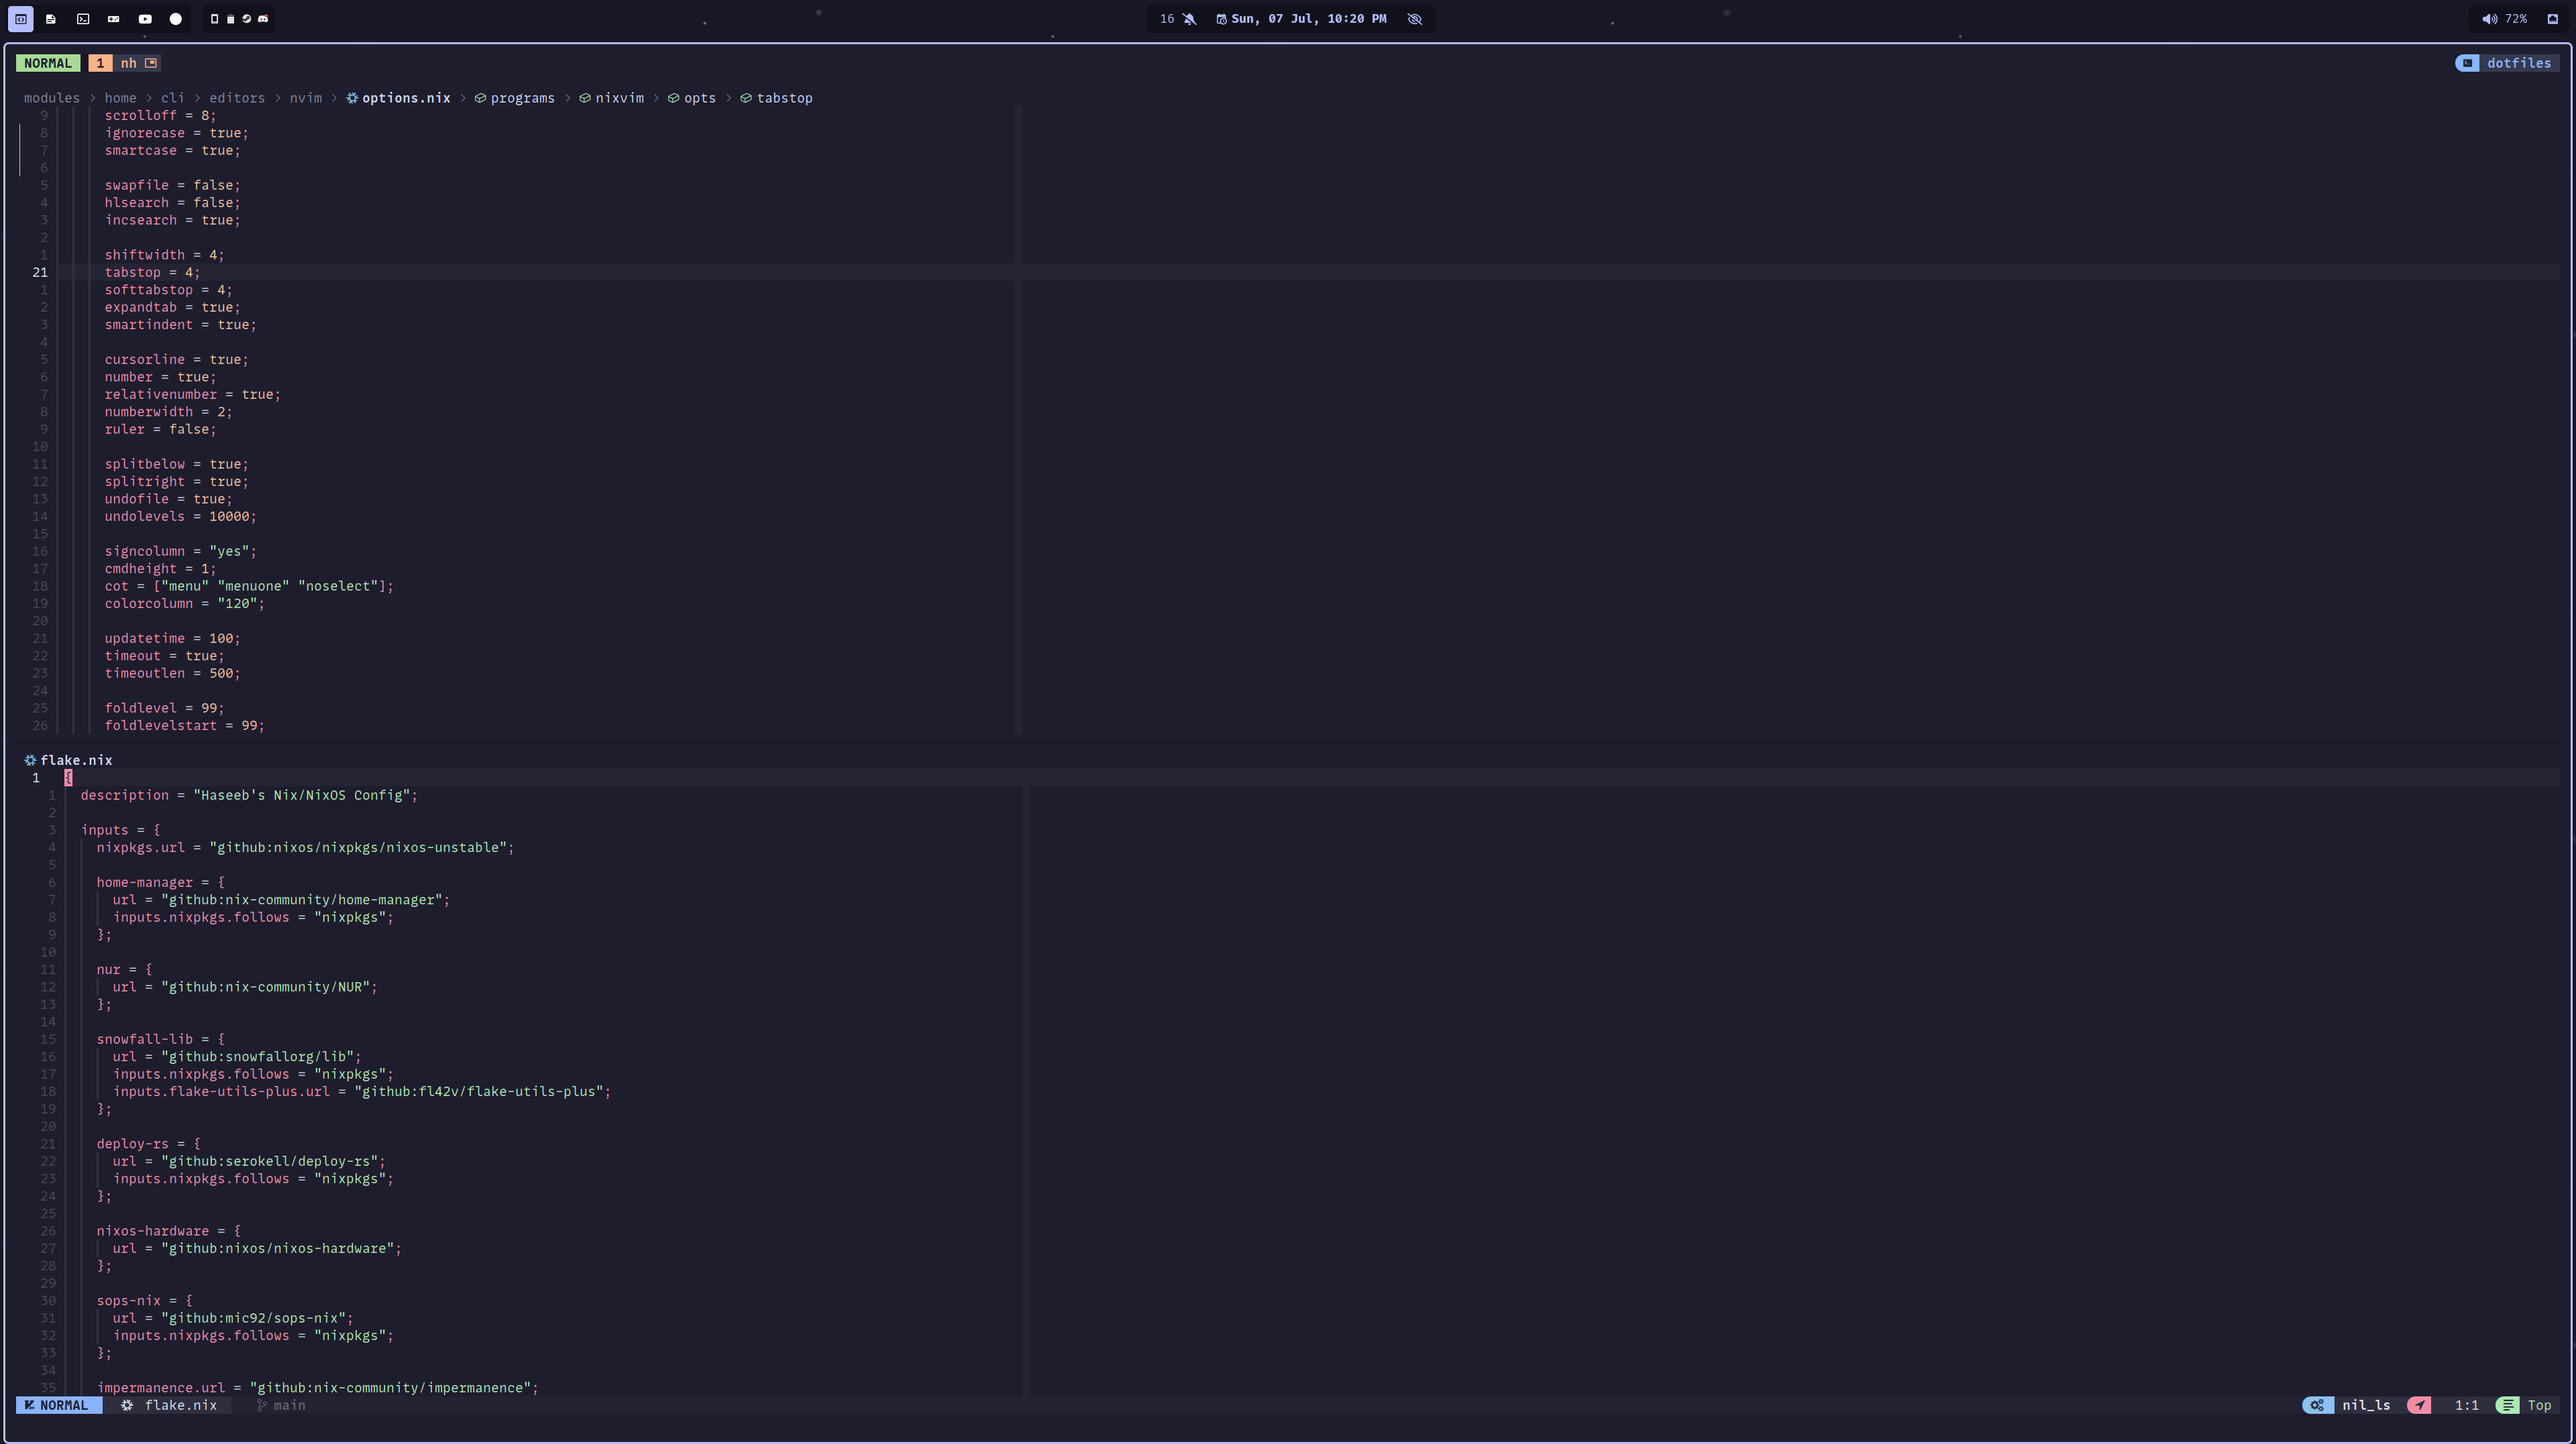
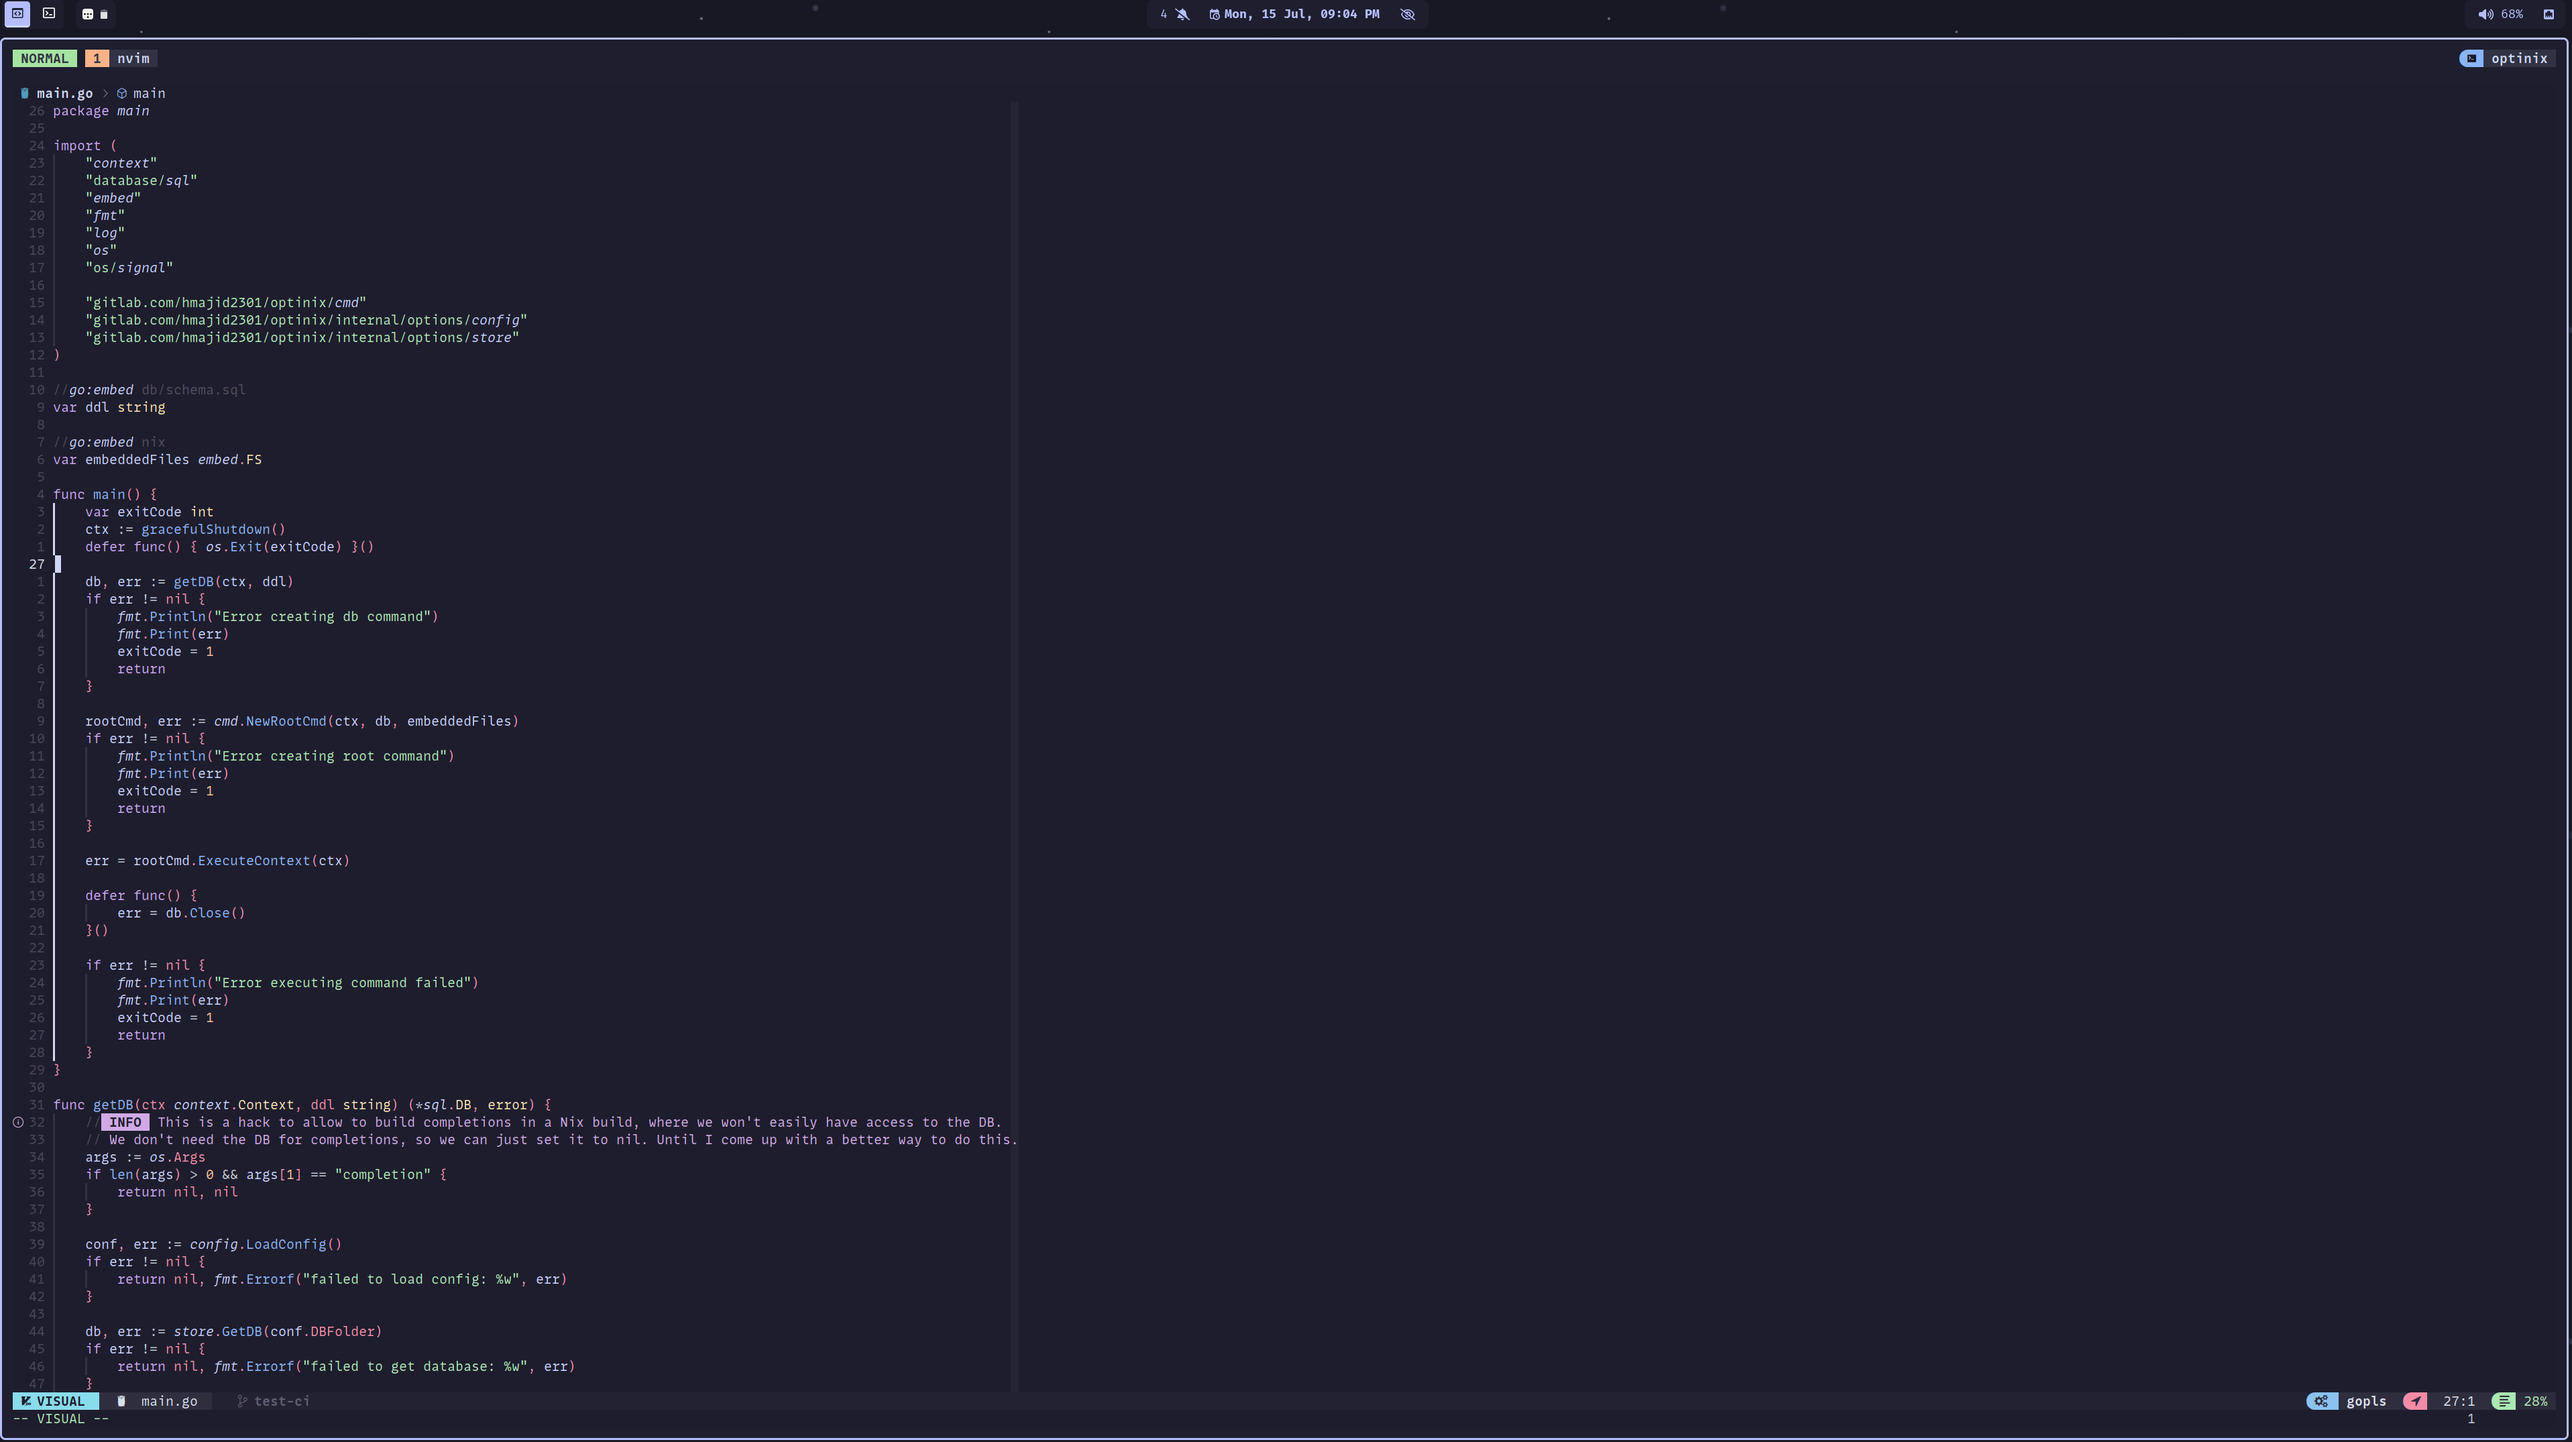
docs: update image for new zellij

diff --git a/README.md b/README.md
@@ -20,7 +20,7 @@
  <p></p>
 <img src="./images/terminal.png"></img>
 <p>
-  Screenshot updated: 2024-07-07
+  Screenshot updated: 2024-07-15
 </p>
 <h4>
   :warning: This config repo is constantly changing,
